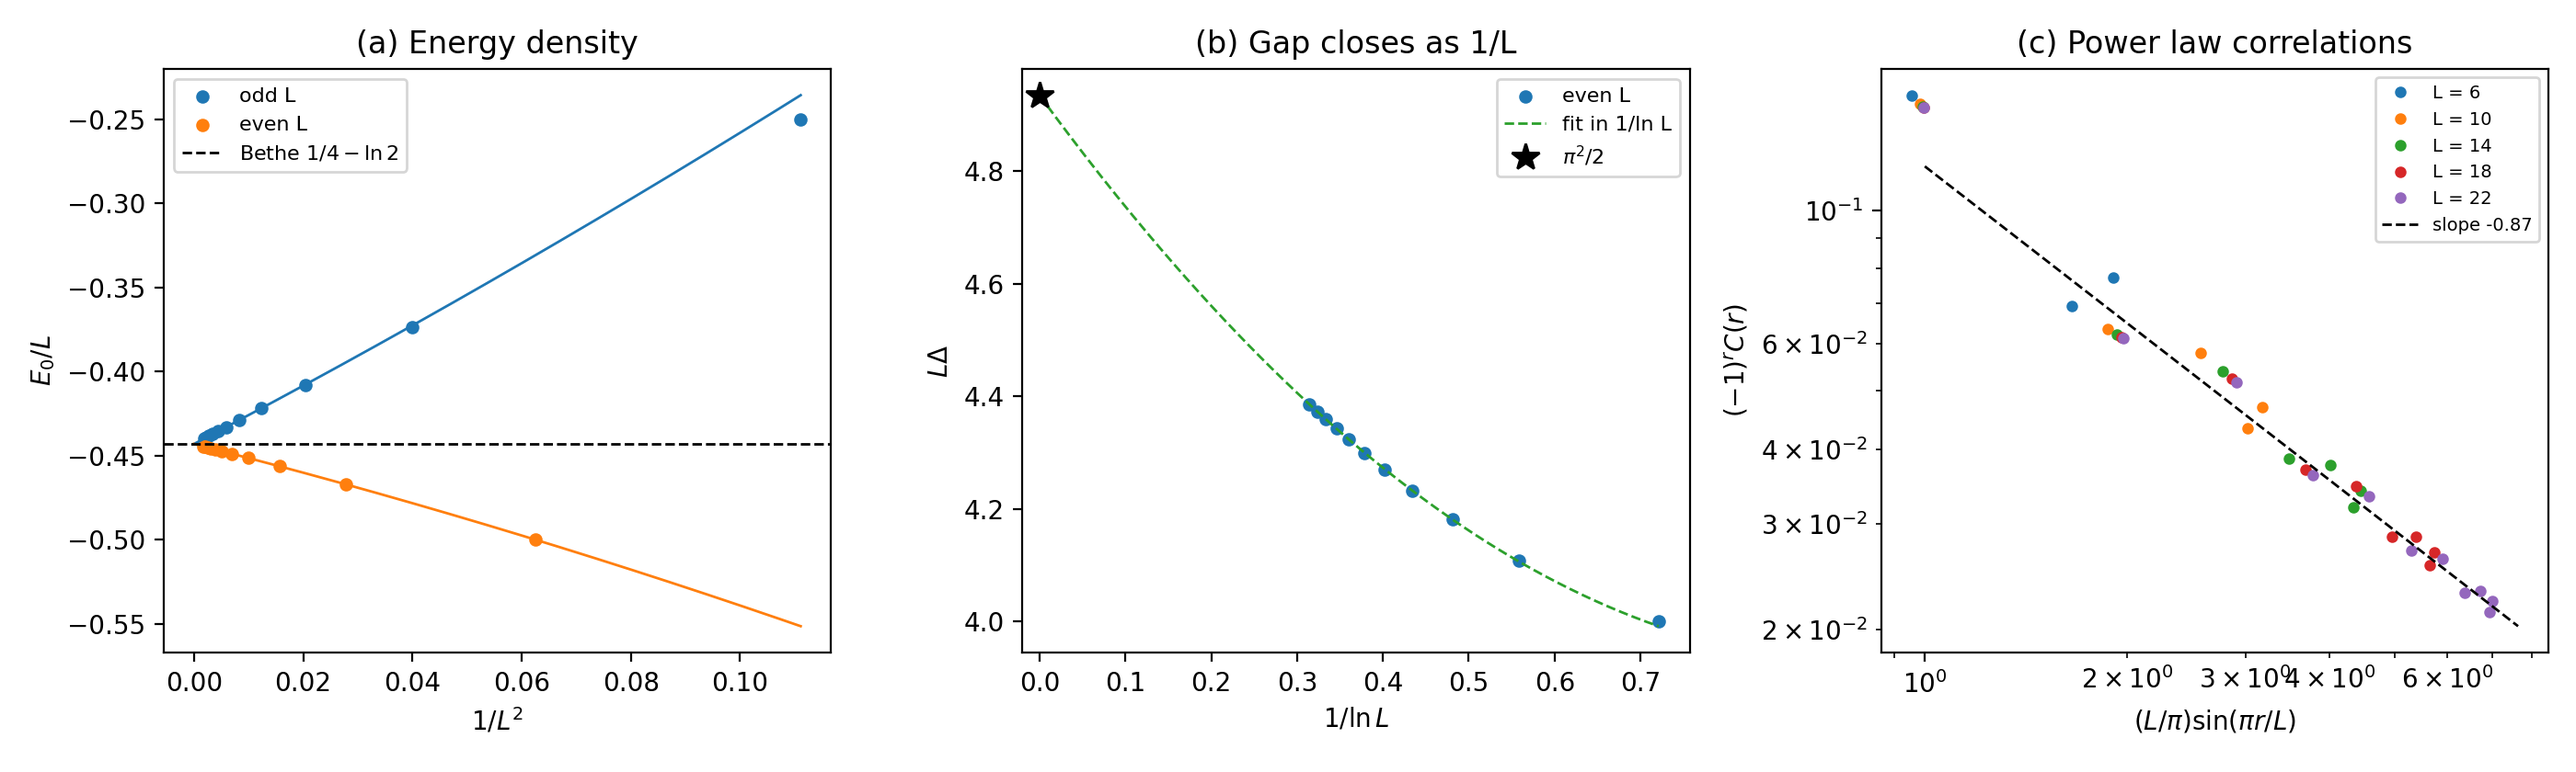
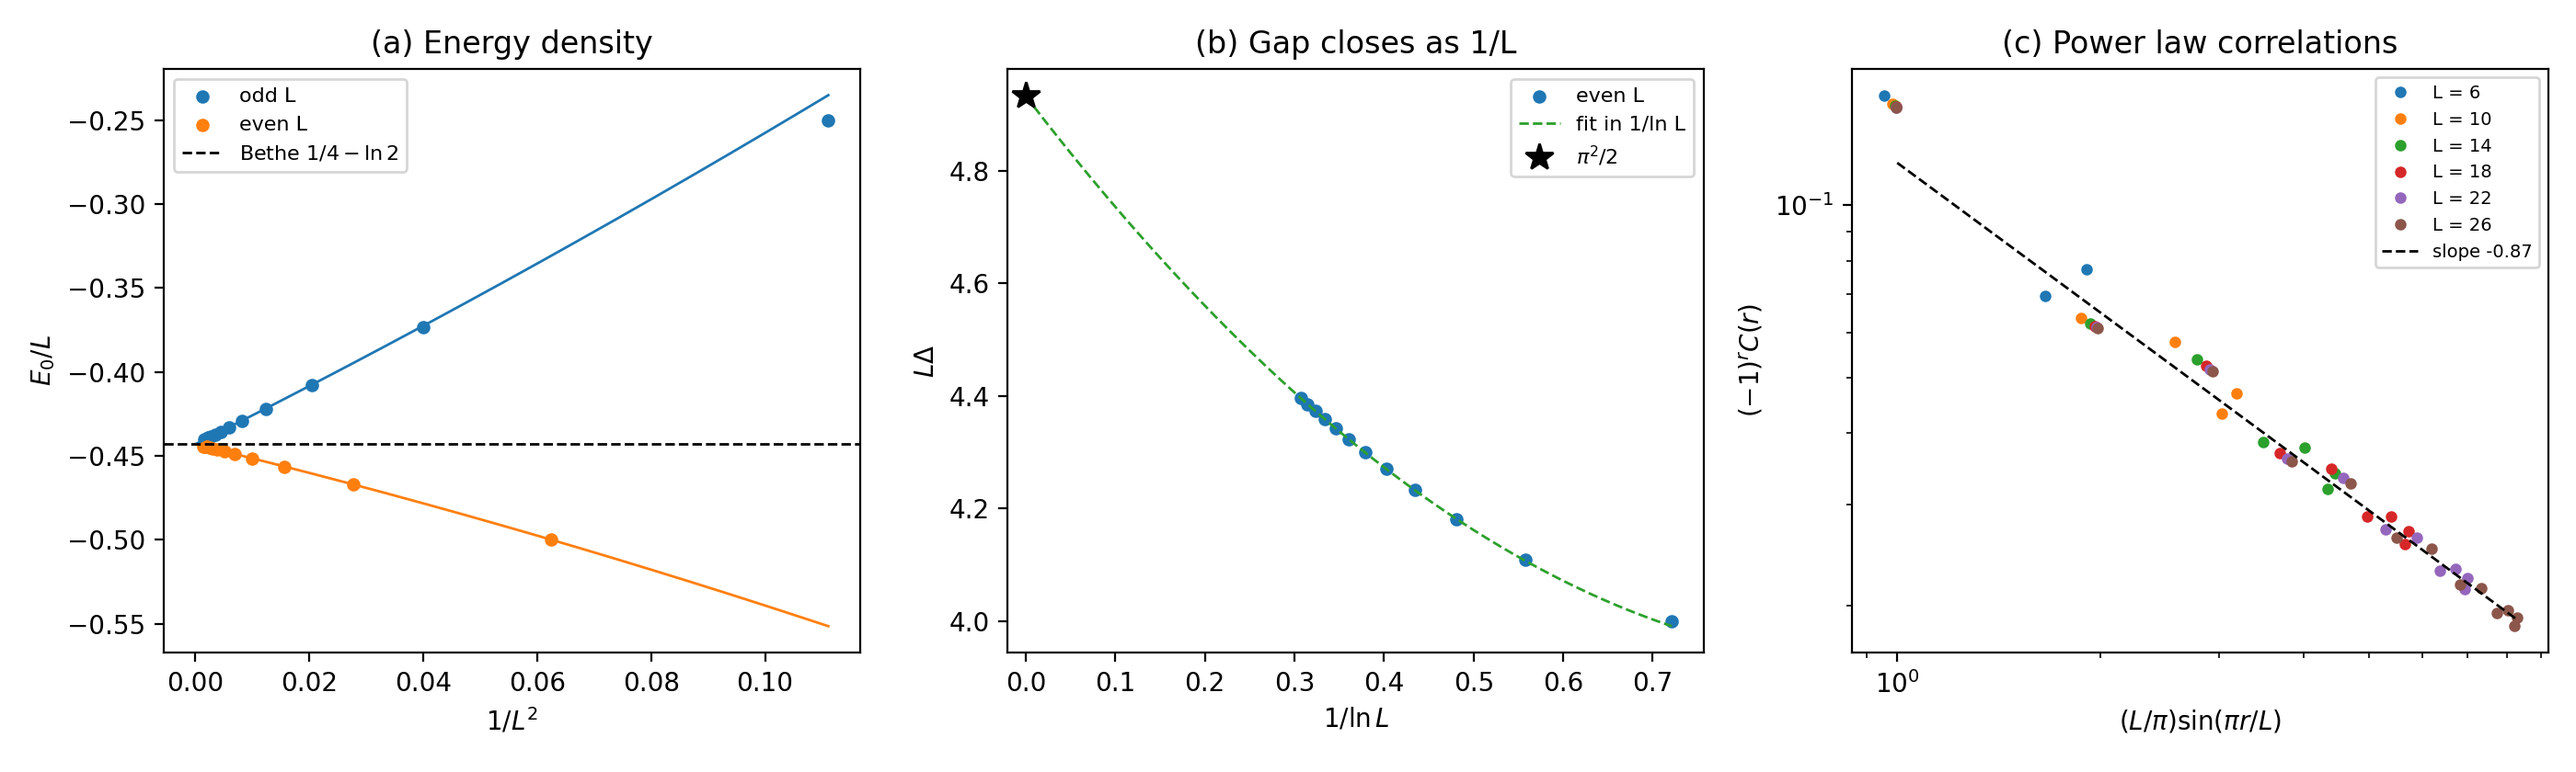
Extend the Heisenberg ring analysis to L = 26
Research task 1 and week 5 now run up to L = 26 (Sz = 0 block of 10.4 million
states, about 80 s for the ground state). Regenerated energy_density.txt and the
figures, and updated the largest correlation distance in the week 5 summary.

diff --git a/Heisenberg chain/QMB week 5.py b/Heisenberg chain/QMB week 5.py
@@ -60,7 +60,7 @@ def residual(hamiltonian, energy, state):
     return np.linalg.norm(hamiltonian @ state - energy*state)
 
 # Variables
-min_L, max_L = 4, 24     # smallest and largest even ring sizes
+min_L, max_L = 4, 26     # smallest and largest even ring sizes
 data_file = "energy_density.txt"
 bethe_ansatz = 0.25 - np.log(2)
 cloizeaux_pearson = np.pi**2/2   # L*gap -> pi v with spin wave velocity v = pi/2
@@ -259,7 +259,7 @@ print(f"Correlations: Neel signs everywhere (antiferromagnetic), but |C| decays 
 print("Best supported: the energy density (odd and even bracket the Bethe value) and the antiferromagnetic")
 print("sign pattern. The gap closing is well supported once the log correction is included, but a plain 1/L")
 print("fit only bounds it. Least secure: the correlation exponent, the two L/2 sub-sequences still drift")
-print("and the sqrt(ln r) correction can't be pinned down over r <= 12.")
+print("and the sqrt(ln r) correction can't be pinned down over r <= 13.")
 
 ###############################################################################
 # Report figure (Heisenberg chain: intrinsic gaplessness)

diff --git a/Heisenberg chain/Research task 1.py b/Heisenberg chain/Research task 1.py
@@ -32,7 +32,7 @@ def residual(hamiltonian, energy, state):
     return np.linalg.norm(hamiltonian @ state - energy*state)
 
 # Variables
-min_L, max_L = 3, 24    # smallest and largest ring sizes
+min_L, max_L = 3, 26    # smallest and largest ring sizes
 data_file = "energy_density.txt"
 
 sizes = []
